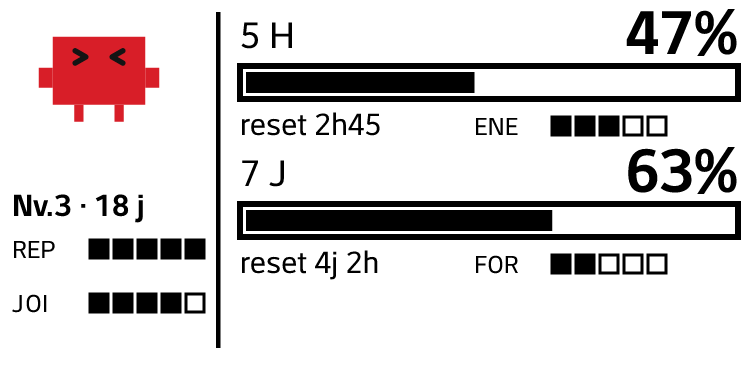
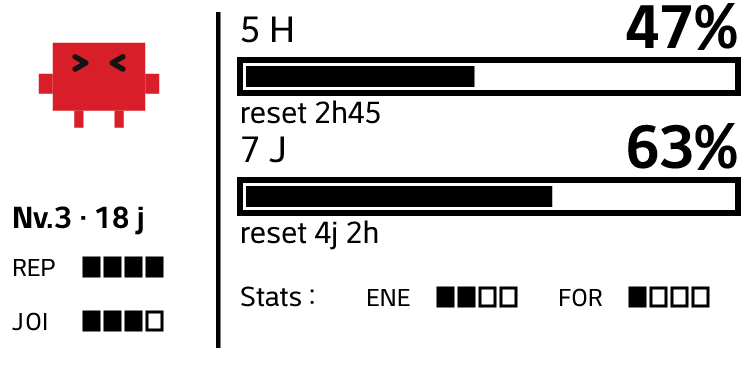
refactor(e-paper): Énergie + Forme regroupées en ligne "Stats :" (compact)
Sous le reset de la limite 7 jours, une ligne "Stats :" affiche
Énergie et Forme côte à côte. Repu/Joie restent sous la mascotte.

diff --git a/server/src/render.ts b/server/src/render.ts
@@ -146,7 +146,7 @@ function buildFull(d: PanelData): string {
 // --- Panneau compact (Waveshare 2.13", 250x122) ---
 
 /** Mini jauge à cellules pour le format compact. */
-function meterCellsSmall(x: number, y: number, value: number, cells = 5, cw = 6, ch = 6, gap = 2): string {
+function meterCellsSmall(x: number, y: number, value: number, cells = 4, cw = 5, ch = 6, gap = 2): string {
   const filled = Math.round((value / 100) * cells);
   let s = '';
   for (let i = 0; i < cells; i++)
@@ -155,21 +155,17 @@ function meterCellsSmall(x: number, y: number, value: number, cells = 5, cw = 6,
 }
 
 function statLineCompact(x: number, y: number, label: string, value: number): string {
-  return `<text x="${x}" y="${y + 6}" font-family="monospace" font-size="8" fill="${INK}">${label}</text>${meterCellsSmall(x + 26, y, value)}`;
+  return `<text x="${x}" y="${y + 6}" font-family="monospace" font-size="8" fill="${INK}">${label}</text>${meterCellsSmall(x + 24, y, value)}`;
 }
 
-function barRowCompact(
-  x: number, y: number, w: number, label: string, v: number, reset: string, red: boolean,
-  statLabel: string, statValue: number,
-): string {
+function barRowCompact(x: number, y: number, w: number, label: string, v: number, reset: string, red: boolean): string {
   const fill = red && v >= 90 ? RED : INK;
   return `
     <text x="${x}" y="${y}" font-family="monospace" font-size="12" fill="${INK}">${label}</text>
     <text x="${x + w}" y="${y + 2}" text-anchor="end" font-family="monospace" font-weight="bold" font-size="20" fill="${INK}">${v}%</text>
     <rect x="${x}" y="${y + 6}" width="${w}" height="11" fill="${PAPER}" stroke="${INK}" stroke-width="2"/>
     <rect x="${x + 2}" y="${y + 8}" width="${(w - 4) * (v / 100)}" height="7" fill="${fill}"/>
-    <text x="${x}" y="${y + 29}" font-family="monospace" font-size="10" fill="${INK}">reset ${reset}</text>
-    ${statLineCompact(x + 78, y + 23, statLabel, statValue)}`;
+    <text x="${x}" y="${y + 27}" font-family="monospace" font-size="10" fill="${INK}">reset ${reset}</text>`;
 }
 
 function buildCompact(d: PanelData): string {
@@ -178,13 +174,16 @@ function buildCompact(d: PanelData): string {
   return `<svg xmlns="http://www.w3.org/2000/svg" width="${W}" height="${H}" viewBox="0 0 ${W} ${H}">
   <defs>${MONO_FILTER}</defs>
   <rect width="${W}" height="${H}" fill="${PAPER}"/>
-  <svg x="2" y="2" width="62" height="54" viewBox="0 0 240 210">${clawdSvg(d.pose, d.mono)}</svg>
-  <text x="4" y="72" font-family="monospace" font-weight="bold" font-size="10" fill="${INK}">Nv.${d.level} · ${d.age}</text>
-  ${statLineCompact(4, 80, 'REP', d.repu)}
-  ${statLineCompact(4, 98, 'JOI', d.joie)}
+  <svg x="2" y="4" width="62" height="54" viewBox="0 0 240 210">${clawdSvg(d.pose, d.mono)}</svg>
+  <text x="4" y="76" font-family="monospace" font-weight="bold" font-size="10" fill="${INK}">Nv.${d.level} · ${d.age}</text>
+  ${statLineCompact(4, 86, 'REP', d.repu)}
+  ${statLineCompact(4, 104, 'JOI', d.joie)}
   <rect x="72" y="4" width="1.5" height="112" fill="${INK}"/>
-  ${barRowCompact(rx, 16, rw, '5 H', d.five, d.fiveReset, d.red, 'ENE', 100 - d.five)}
-  ${barRowCompact(rx, 62, rw, '7 J', d.seven, d.sevenReset, d.red, 'FOR', 100 - d.seven)}
+  ${barRowCompact(rx, 14, rw, '5 H', d.five, d.fiveReset, d.red)}
+  ${barRowCompact(rx, 54, rw, '7 J', d.seven, d.sevenReset, d.red)}
+  <text x="${rx}" y="102" font-family="monospace" font-size="9" fill="${INK}">Stats :</text>
+  ${statLineCompact(rx + 42, 96, 'ENE', 100 - d.five)}
+  ${statLineCompact(rx + 106, 96, 'FOR', 100 - d.seven)}
 </svg>`;
 }
 